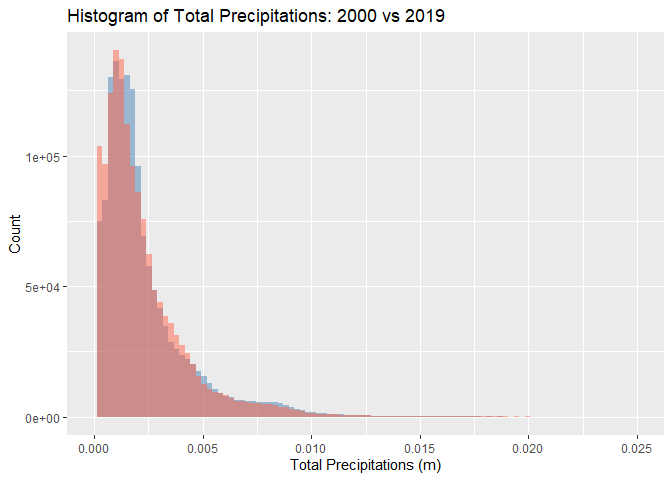
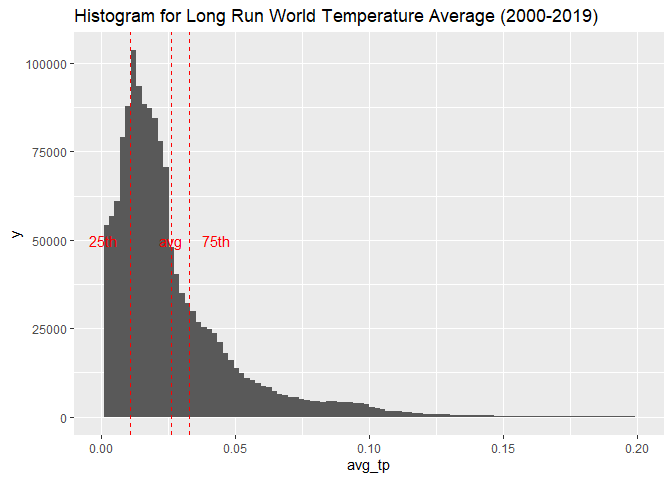
precipitation code

diff --git a/MSc-Thesis-Econ/code/prec-data.md b/MSc-Thesis-Econ/code/prec-data.md
@@ -7,9 +7,18 @@ Code
 
 Source: <https://doi.org/10.24381/cds.68d2bb30>
 
-For precipitation data, I use the ERA5-Land dataset from Copernicus. It
-provides “total precipitation” at grid cell level, with a resolution of
-0.1°, and a monthly frequency from 2000 to 2019.
+For precipitation data, I use the ERA5-Land dataset from Copernicus.
+
+Definition of “Total Precipitation”: Accumulated liquid and frozen
+water, including rain and snow, that falls to the Earth’s surface. This
+variable is accumulated from the beginning of the forecast time to the
+end of the forecast step (= monthly).
+
+Unit measure: meters.
+
+In addition to the others preparatory steps, I need to compute the
+“cumulated total precipitation” of each year. Making the average over a
+year of the monthly precipitations is not useful to represent the area.
 
 ``` r
 library(ncdf4)
@@ -19,6 +28,12 @@ library(terra)
     ## Warning: package 'terra' was built under R version 4.4.3
 
     ## terra 1.8.29
+
+``` r
+library(ggplot2)
+```
+
+    ## Warning: package 'ggplot2' was built under R version 4.4.3
 
 ``` r
 # 1) Load data
@@ -49,8 +64,8 @@ gc() # free memory
 ```
 
     ##              used    (Mb) gc trigger    (Mb)   max used    (Mb)
-    ## Ncells    1254195    67.0    2160877   115.5    2160877   115.5
-    ## Vcells 1557834974 11885.4 4486614746 34230.2 3113962176 23757.7
+    ## Ncells    1457718    77.9    2686960   143.5    2163378   115.6
+    ## Vcells 1558127304 11887.6 4487035701 34233.4 3114254539 23759.9
 
 ``` r
 # 2) Create rasters and compute year average
@@ -79,8 +94,8 @@ for (j in seq_along(years_unique)) {
     month_rasters[[k]] <- r
   }
 
-  # Compute year mean
-  yearly_raster <- mean(rast(month_rasters), na.rm = TRUE)
+  # Compute YEAR CUMULATIVE SUM
+  yearly_raster <- sum(rast(month_rasters), na.rm = TRUE)
   
   # Name the raster layer with the year
   names(yearly_raster) <- paste0("tp_", yr)
@@ -361,8 +376,8 @@ gc()
 ```
 
     ##           used (Mb) gc trigger    (Mb)   max used    (Mb)
-    ## Ncells 1264961 67.6    2160877   115.5    2160877   115.5
-    ## Vcells 1798936 13.8 3589291797 27384.2 3113962176 23757.7
+    ## Ncells 1465501 78.3    2686960   143.5    2686960   143.5
+    ## Vcells 2084303 16.0 3589628561 27386.7 3114254539 23759.9
 
 ``` r
 # 3) Yearly rasters
@@ -387,27 +402,71 @@ df_avg <- as.data.frame(avg_raster, xy = TRUE)
 df <- merge(df_2000, df_2019, by = c("x", "y"), suffixes = c("_2000", "_2019"))
 df <- merge(df, df_avg, by = c("x", "y"))
 colnames(df) <- c("x", "y", "tp_2000", "tp_2019", "avg_tp")
+df$prec_diff <- df$tp_2019 - df$avg_tp
 df$x <- round(df$x, 1)
 df$y <- round(df$y, 1)
 
 write.csv(df, "total_precipitation_summary.csv", row.names = FALSE)
 ```
 
+Summary Stats for Long Run Total Precipitation
+
+Max = 1,1m/year // Mean = 26cm/year
+
 ``` r
-library(ggplot2)
+# Summary Stats
+
+q1_tp <- quantile(df$avg_tp, 0.25)
+q3_tp <- quantile(df$avg_tp, 0.75)
+avg_tp <- mean(df$avg_tp)
+
+summary(df$avg_tp)
 ```
 
-    ## Warning: package 'ggplot2' was built under R version 4.4.3
+    ##      Min.   1st Qu.    Median      Mean   3rd Qu.      Max. 
+    ## 0.0000306 0.0106985 0.0190383 0.0260156 0.0327398 1.1188502
+
+Distribution for Long Run Total Precipitation average
 
 ``` r
+ggplot() +
+  geom_histogram(data = df, mapping = aes(avg_tp), bins=100) +
+  scale_x_continuous(limits = c(0, .2))  +
+  
+  geom_vline(xintercept = q1_tp, color = "red", linetype=2) + 
+  annotate("text", x = q1_tp-.01, y=50000, label = "25th", color="red") +
+  
+  geom_vline(xintercept = avg_tp, color = "red", linetype=2) + 
+  annotate("text", x = avg_tp, y=50000, label = "avg", color="red") +
+  
+  geom_vline(xintercept = q3_tp, color = "red", linetype=2) + 
+  annotate("text", x = q3_tp+.01, y=50000, label = "75th", color="red") +
+  
+  ggtitle("Histogram for Long Run World Temperature Average (2000-2019)")
+```
+
+    ## Warning: Removed 2018 rows containing non-finite outside the scale range
+    ## (`stat_bin()`).
+
+    ## Warning: Removed 2 rows containing missing values or values outside the scale range
+    ## (`geom_bar()`).
+
+![](prec-data_files/figure-gfm/unnamed-chunk-3-1.png)<!-- -->
+
+When looking at total rainfall over the year, very wet areas like the
+Amazon rainforest and dry areas like North Africa are easy to see.
+
+``` r
+library(ggplot2)
+
 ggplot() + 
   geom_raster(data = df, mapping = aes(x = x, y = y, fill = avg_tp)) +
   coord_fixed() +
-  scale_fill_viridis_b(name = "m", limits = c(0,0.015)) +
+  scale_fill_viridis_b(name = "m", limits = c(0, .1), breaks = seq(0, .1, .025)) +
   ggtitle("All-time Avg Total Precipitations 2000-2019")
 ```
 
-![](prec-data_files/figure-gfm/unnamed-chunk-2-1.png)<!-- -->
+![](prec-data_files/figure-gfm/unnamed-chunk-4-1.png)<!-- -->
 
 ``` r
 ggplot() +
@@ -416,14 +475,14 @@ ggplot() +
   geom_histogram(data = df, aes(x = tp_2019), 
                  fill = "tomato", alpha = 0.5, bins = 100) +
   labs(x = "Total Precipitations (m)", y = "Count", title = "Histogram of Total Precipitations: 2000 vs 2019") +
-  scale_x_continuous(limits = c(0, 0.025)) +
+  scale_x_continuous(limits = c(0, 0.2)) +
   guides(fill = guide_legend(title = "Year"))
 ```
 
-    ## Warning: Removed 729 rows containing non-finite outside the scale range
+    ## Warning: Removed 2150 rows containing non-finite outside the scale range
     ## (`stat_bin()`).
 
-    ## Warning: Removed 497 rows containing non-finite outside the scale range
+    ## Warning: Removed 2119 rows containing non-finite outside the scale range
     ## (`stat_bin()`).
 
     ## Warning: Removed 2 rows containing missing values or values outside the scale range
@@ -431,4 +490,23 @@ ggplot() +
     ## Removed 2 rows containing missing values or values outside the scale range
     ## (`geom_bar()`).
 
-![](prec-data_files/figure-gfm/unnamed-chunk-3-1.png)<!-- -->
+![](prec-data_files/figure-gfm/unnamed-chunk-5-1.png)<!-- -->
+
+``` r
+summary(df$prec_diff)
+```
+
+    ##       Min.    1st Qu.     Median       Mean    3rd Qu.       Max. 
+    ## -2.126e-01 -2.270e-03  6.795e-05 -9.648e-05  2.496e-03  1.220e-01
+
+Let’s plot where it rained more or less than then Long Run average.
+
+``` r
+ggplot() + 
+  geom_raster(data = df, mapping = aes(x = x, y = y, fill = prec_diff)) +
+  scale_fill_viridis_b(limits = c(-.15, .15), breaks=seq(-.15, .15, .15))  +
+  coord_fixed() +
+  ggtitle("Total Precipitation difference 2019 vs Avg")
+```
+
+![](prec-data_files/figure-gfm/unnamed-chunk-7-1.png)<!-- -->
